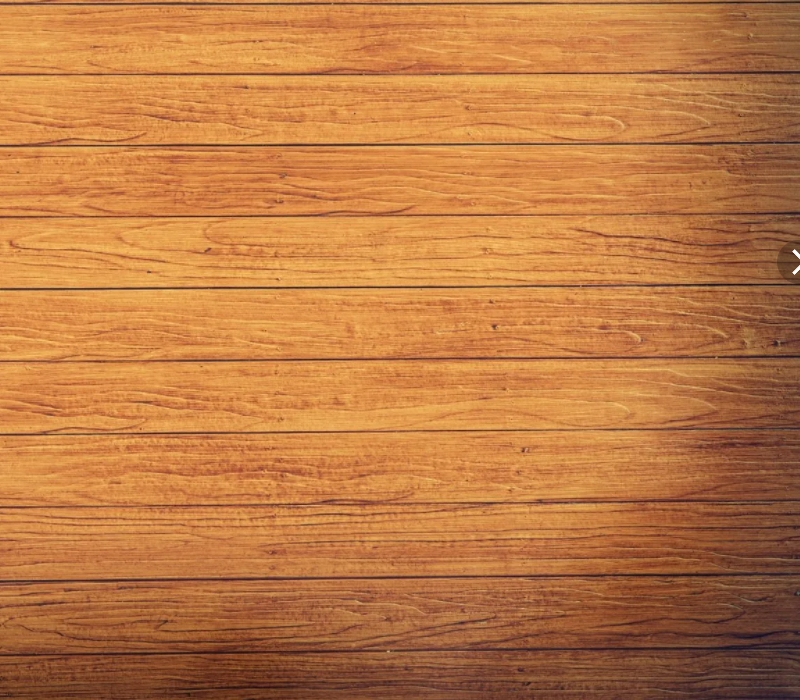
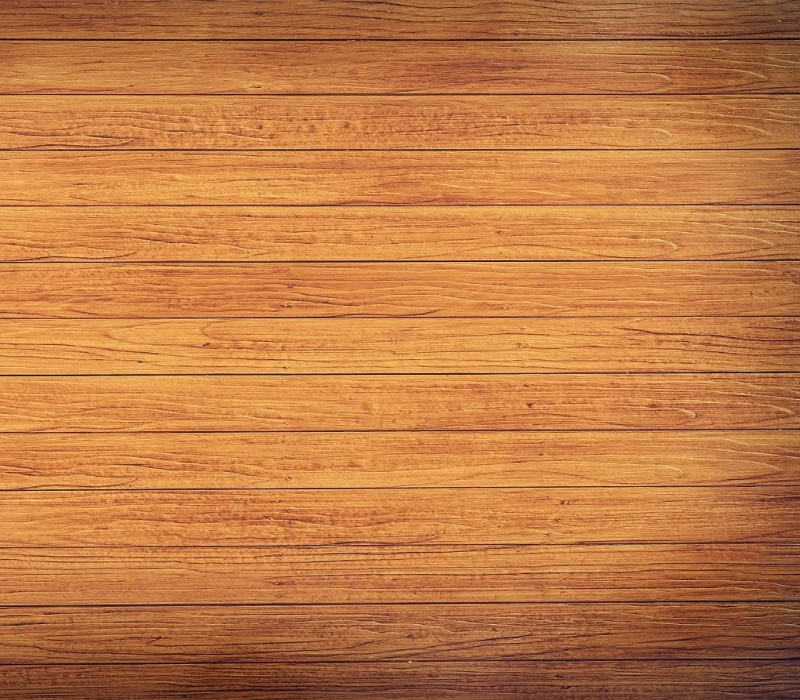
Отработанно фон уровней

diff --git a/Pygame.py b/Pygame.py
@@ -54,9 +54,37 @@ if __name__ == '__main__':
                     run = False
                 if pygame.Rect.collidepoint(Settings.rect, pygame.mouse.get_pos()):
                     Fon_settings = Image(400, 0, 'Фон настроек.jpg', all_sprites)
-                    Aim_tip = Image(300, -90, 'Тип прицела.png', all_sprites)
+                    Aim_tip = Image(300, -60, 'Тип прицела.png', all_sprites)
                 if pygame.Rect.collidepoint(Levels.rect, pygame.mouse.get_pos()):
-                    print('Levels')
+                    Level_fon = Image(400, 0, 'Фон уровней.jpg', all_sprites)
+
+                    Level_one = Image(450, 50, '1 уровень.png', all_sprites)
+                    Coin_1_lvl1 = Image(650, 50, 'Монетка.png', all_sprites)
+                    Coin_2_lvl1 = Image(750, 50, 'Монетка.png', all_sprites)
+                    Coin_3_lvl1 = Image(850, 50, 'Монетка.png', all_sprites)
+
+                    Level_two = Image(450, 200, '2 уровень.png', all_sprites)
+                    Coin_1_lvl2 = Image(650, 200, 'Монетка.png', all_sprites)
+                    Coin_2_lvl2 = Image(750, 200, 'Монетка.png', all_sprites)
+                    Coin_3_lvl2 = Image(850, 200, 'Монетка.png', all_sprites)
+
+                    Level_three = Image(450, 350, '3 уровень.png', all_sprites)
+                    Coin_1_lvl3 = Image(650, 350, 'Монетка.png', all_sprites)
+                    Coin_2_lvl3 = Image(750, 350, 'Монетка.png', all_sprites)
+                    Coin_3_lvl3 = Image(850, 350, 'Монетка.png', all_sprites)
+
+                    Level_four = Image(450, 500, '4 уровень.png', all_sprites)
+                    Coin_1_lvl4 = Image(650, 500, 'Монетка.png', all_sprites)
+                    Coin_2_lvl4 = Image(750, 500, 'Монетка.png', all_sprites)
+                    Coin_3_lvl4 = Image(850, 500, 'Неактивная монетка.png', all_sprites)
+                    if pygame.Rect.collidepoint(Level_one.rect, pygame.mouse.get_pos()):
+                        print('Level_one')
+                    if pygame.Rect.collidepoint(Level_two.rect, pygame.mouse.get_pos()):
+                        print('Level_two')
+                    if pygame.Rect.collidepoint(Level_three.rect, pygame.mouse.get_pos()):
+                        print('Level_three')
+                    if pygame.Rect.collidepoint(Level_four.rect, pygame.mouse.get_pos()):
+                        print('Level_four')
                 if pygame.Rect.collidepoint(New_game.rect, pygame.mouse.get_pos()):
                     print('New_game')
 
